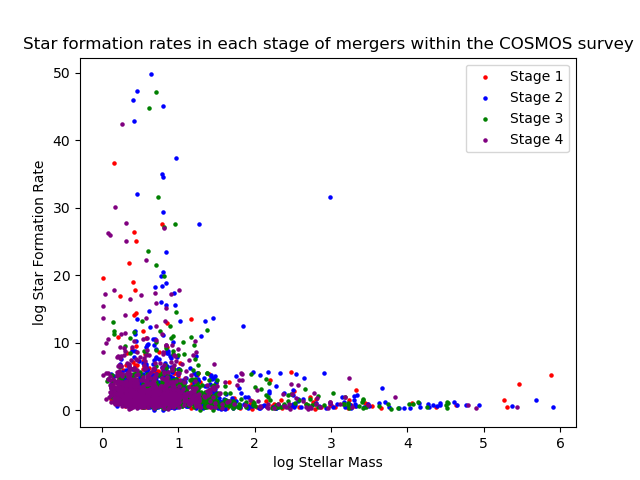
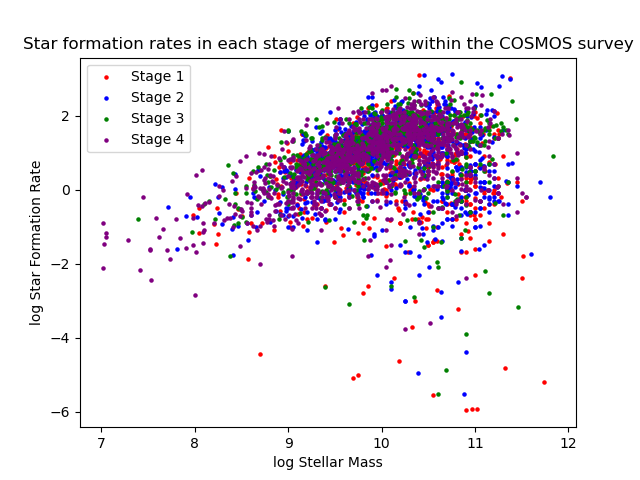
Fixed wrong columns being plotted

diff --git a/plots/plotting_code/main_plots/sfr_mass.py b/plots/plotting_code/main_plots/sfr_mass.py
@@ -21,14 +21,14 @@ def data_gather():
         5 | isStageTwo | ^
         6 | isStageThree | ^
         7 | isStageFour | ^
-        11 | mass_med | stellar mass from the pdf
-        12 | mass_med_min68 | stellar mass lower limit, 68% confidence
-        13 | mass_med_max68 | stellar mass upper limit, 68% confidence
-        14 | mass_best | stellar mass from chi^2
-        15 | sfr_med | star formation rate from the pdf
-        16 | sfr_med_min68 | star formation rate lower limit, 68% confidence 
-        17 | sfr_med__max68 | star formation rate upper limit, 68% confidence
-        18 | sfr_best | star formation rate from chi^2
+        19 | mass_med | stellar mass from the pdf
+        20 | mass_med_min68 | stellar mass lower limit, 68% confidence
+        21 | mass_med_max68 | stellar mass upper limit, 68% confidence
+        22 | mass_best | stellar mass from chi^2
+        23 | sfr_med | star formation rate from the pdf
+        24 | sfr_med_min68 | star formation rate lower limit, 68% confidence 
+        25 | sfr_med__max68 | star formation rate upper limit, 68% confidence
+        26 | sfr_best | star formation rate from chi^2
         '''
         for row in reader:
             if row[4] == 1:  # creates new field storing which stage of the merger it is
@@ -39,7 +39,7 @@ def data_gather():
                 stage = 3
             elif row[7] == 1:
                 stage = 4
-            data.append([row[11], row[12], row[13], row[14], row[15], row[16], row[17], row[18], stage])
+            data.append([row[19], row[20], row[21], row[22], row[23], row[24], row[25], row[26], stage])
     return data
 
 
@@ -66,15 +66,17 @@ def generate_plot(data):
     colours = ['red', 'blue', 'green', 'purple']
 
     for j in range(0, 4):
-        mass_med = [data[i][0] for i in indices[j]]
+        mass_med = [data[i][0] for i in indices[j]]  # List of x-axis values
         mass_low_err = [data[i][0] - data[i][1] for i in indices[j]]
         mass_upp_err = [data[i][2] - data[i][0] for i in indices[j]]
-        sfr_med = [data[i][4] for i in indices[j]]
+        sfr_med = [data[i][4] for i in indices[j]]  # List of y-axis values
         sfr_low_err = [data[i][4] - data[i][5] for i in indices[j]]
         sfr_upp_err = [data[i][6] - data[i][4] for i in indices[j]]
 
+        # Errors
         mass_err = [mass_low_err, mass_upp_err]
         sfr_err = [sfr_low_err, sfr_upp_err]
+        # print(mass_med[0])
 
         
         # plt.errorbar(mass_med, sfr_med, xerr=mass_err, yerr=sfr_err, fmt='o', c=colours[j], markersize=1, ecolor='black', elinewidth=1, label=f'Stage {j+1}')
